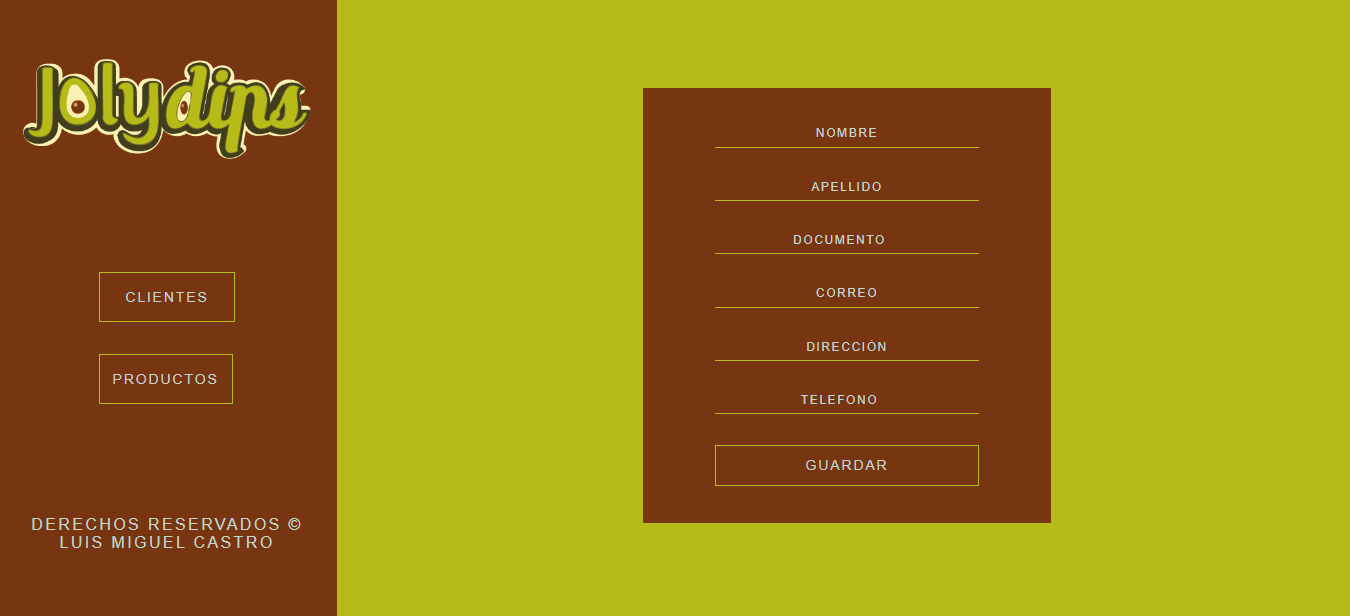
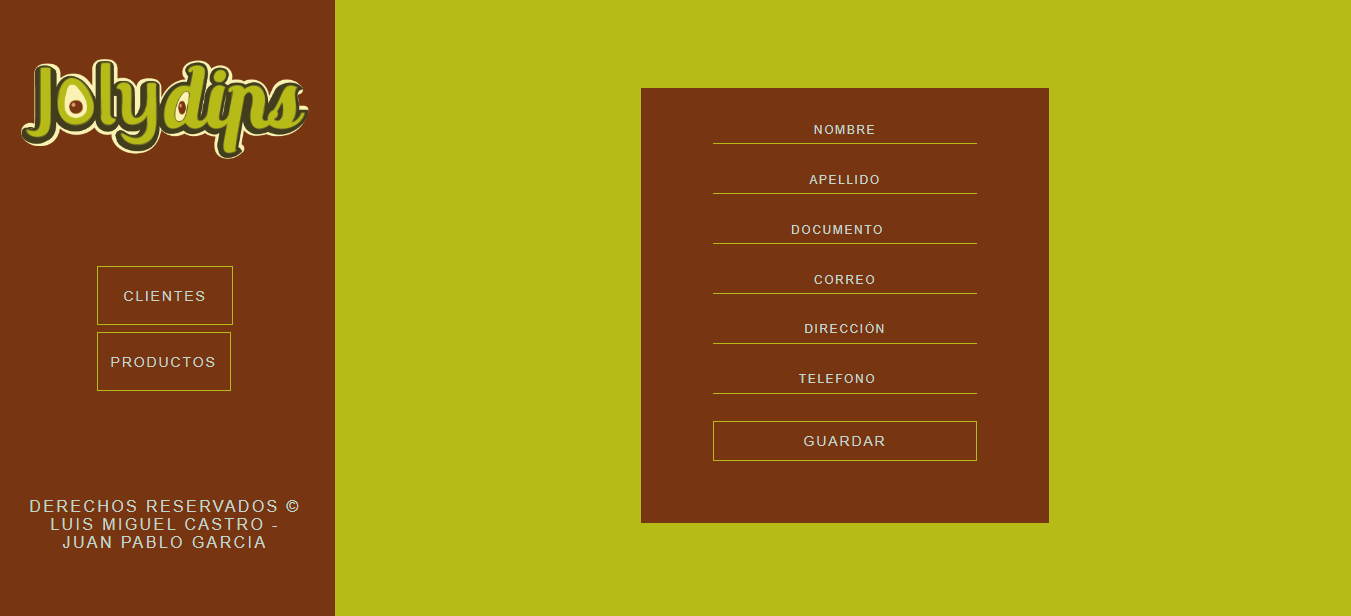
se actualiza imagen

diff --git a/views/css/style.css b/views/css/style.css
@@ -69,7 +69,7 @@ body {
   color: var(--colorFont);
   font-size: 1rem;
   padding: 0 0.6rem;
-  width: 100%;
+  width: 90%;
   text-transform: uppercase;
   letter-spacing: 0.15rem;
 }
